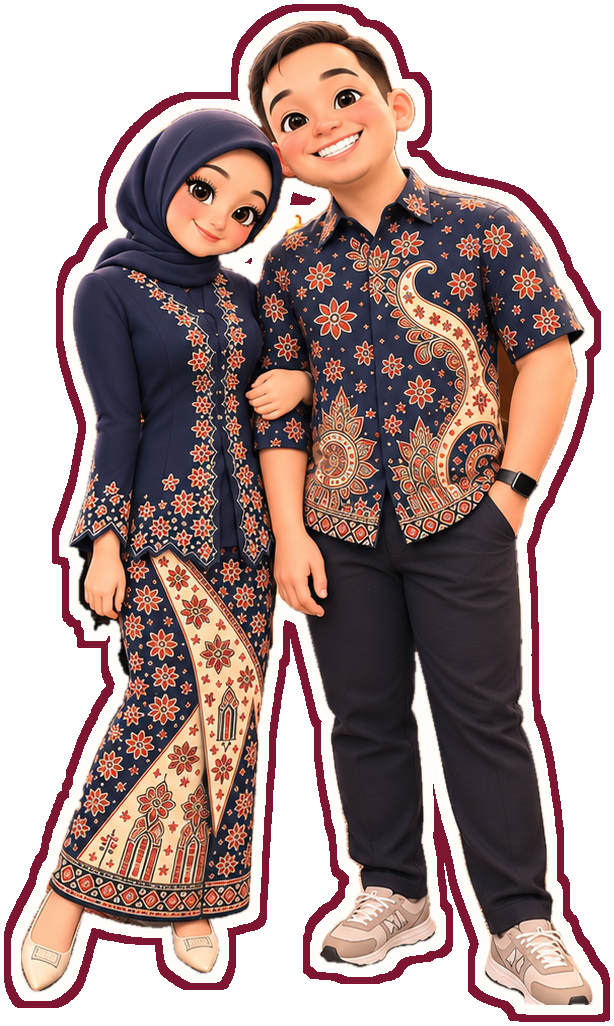
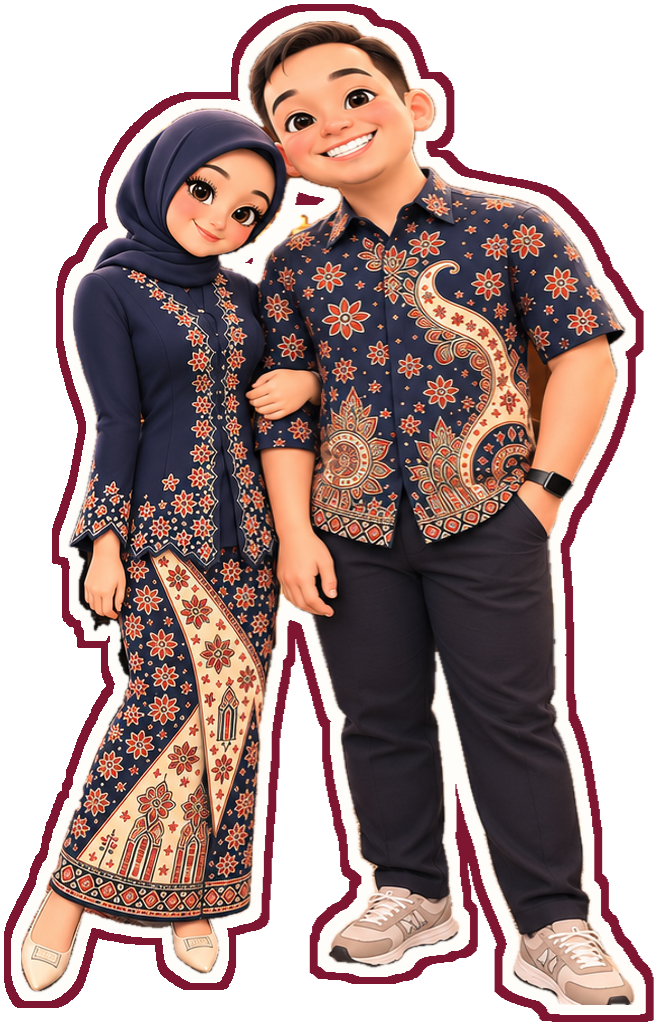
Update invitation: new photos, Thank You stickers, cute map, guest name
Claude-Session: https://claude.ai/code/session_01Wue7TvUhB2ZEZw9wazKPZM

diff --git a/index.html b/index.html
@@ -17,6 +17,8 @@ body{margin:0;background:#E9E2D6}
 a{color:#1E2B5C}a:hover{color:#B3164B}
 @keyframes fadeUp{from{opacity:0;transform:translateY(18px)}to{opacity:1;transform:none}}
 @keyframes zoomIn{from{opacity:0;transform:scale(.92)}to{opacity:1;transform:none}}
+@keyframes wob{0%,100%{transform:rotate(var(--r)) translateY(0)}25%{transform:rotate(calc(var(--r) + 3deg)) translateY(-5px)}50%{transform:rotate(var(--r)) translateY(-8px)}75%{transform:rotate(calc(var(--r) - 3deg)) translateY(-3px)}}
+.wob{animation:wob 3.2s ease-in-out infinite}
 @keyframes floaty{0%,100%{transform:translateY(0)}50%{transform:translateY(-6px)}}
 @keyframes beat{0%,100%{transform:scale(1)}15%{transform:scale(1.1)}30%{transform:scale(1)}45%{transform:scale(1.05)}}
 @keyframes sway{0%,100%{transform:rotate(-1.2deg)}50%{transform:rotate(1.2deg)}}
@@ -159,8 +161,8 @@ html,body{margin:0;height:100%;overflow:hidden;background:#FDF2F4}
     <g class="swb" style="animation-delay: .8s"><use href="#bowN" x="167" y="8" width="96" height="88"></use></g>
   </svg>
     <div style="position: absolute; left: 0; right: 0; top: 120px; bottom: 100px; display: flex; flex-direction: column; align-items: center; justify-content: center; gap: 4px; padding: 0 50px; text-align: center">
-      <p class="fu" style="margin: 0; font-family: 'Patrick Hand', cursive; font-size: 17px; color: #1E2B5C">for</p>
-      <p class="fu d1" style="margin: -4px 0 0; font-family: 'Great Vibes', cursive; font-size: 46px; line-height: 1.1; color: #B3164B" id="guest">you</p>
+      <p class="fu" style="margin: 0; font-family: 'Patrick Hand', cursive; font-size: 26px; color: #1E2B5C">for</p>
+      <p class="fu d1" style="margin: 0; font-family: 'Kalam', cursive; font-weight: 700; font-size: 34px; line-height: 1.2; color: #B3164B" id="guest">you</p>
       <div data-cls="envCls" style="transform-origin: 50% 55%">
         <button data-click="openEnv" aria-label="Tap to open the invitation" style="display: block; padding: 0; margin: 0; border: none; background: none; cursor: pointer">
           <svg class="zi d2" aria-hidden="true" width="300" height="433" viewBox="0 0 360 520" style="overflow: visible">
@@ -277,10 +279,8 @@ html,body{margin:0;height:100%;overflow:hidden;background:#FDF2F4}
         <div style="position: absolute; left: 4px; right: 4px; bottom: 0; height: 104px"><svg aria-hidden="true" width="350" height="104" viewBox="0 0 350 104" style="position: absolute; inset: 0"><path d="M6 10.8 L20 9.2 L34 12.8 L48 9.9 L62 8.8 L76 12.8 L90 19.0 L104 17.6 L118 17.2 L132 10.7 L146 14.4 L160 11.3 L174 10.1 L188 9.3 L202 10.6 L216 19.1 L230 17.9 L244 17.7 L258 17.6 L272 10.3 L286 11.7 L300 15.5 L314 16.8 L328 18.3 L342 18.6 L344 84.2 L330 91.5 L316 92.4 L302 90.1 L288 85.5 L274 89.6 L260 84.3 L246 96.1 L232 95.1 L218 90.7 L204 87.2 L190 95.7 L176 91.0 L162 95.4 L148 94.9 L134 90.1 L120 88.8 L106 91.4 L92 89.0 L78 85.3 L64 87.3 L50 94.4 L36 83.6 L22 83.6 L8 91.8 Z" fill="#F2B8C0" opacity=".9"></path><path d="M18 26 H307" stroke="#FBE3E6" stroke-width="3" opacity=".7" stroke-linecap="round"></path><path d="M30 35 H310" stroke="#FBE3E6" stroke-width="3" opacity=".7" stroke-linecap="round"></path><path d="M20 44 H331" stroke="#FBE3E6" stroke-width="3" opacity=".7" stroke-linecap="round"></path><path d="M16 53 H336" stroke="#FBE3E6" stroke-width="2.5" opacity=".7" stroke-linecap="round"></path><path d="M39 62 H328" stroke="#FBE3E6" stroke-width="3" opacity=".7" stroke-linecap="round"></path><path d="M30 71 H312" stroke="#FBE3E6" stroke-width="2.5" opacity=".7" stroke-linecap="round"></path><path d="M15 80 H318" stroke="#FBE3E6" stroke-width="2.5" opacity=".7" stroke-linecap="round"></path><path d="M0 52.0 C70.0 44.0 140.0 58.0 210.0 48.0" stroke="#F2B8C0" stroke-width="14" stroke-linecap="round" fill="none" opacity=".6"></path></svg>
           <p style="position: relative; margin: 0; padding: 40px 24px 0; font-family: 'Kalam', cursive; font-size: 15px; line-height: 1.35; color: #7E1631">“A celebration of love, laughter and our forever beginning”</p>
         </div>
-        <img class="hello" src="img/couple-hero.png" alt="Fregita and Yanuar waving" style="position: absolute; left: 79px; top: 36px; width: 200px; height: auto">
-        <svg class="bt" aria-hidden="true" width="30" height="27" viewBox="0 0 40 36" style="position: absolute; left: 156px; top: 2px; transform: rotate(-12deg)"><use href="#sh" width="40" height="36"></use></svg><svg class="bt" aria-hidden="true" width="26" height="23" viewBox="0 0 40 36" style="position: absolute; left: 192px; top: 0px; transform: rotate(14deg)"><use href="#sh" width="40" height="36"></use></svg><svg class="fl" aria-hidden="true" width="28" height="25" viewBox="0 0 40 36" style="position: absolute; left: 20px; top: 110px; transform: rotate(-14deg)"><use href="#oh" width="40" height="36"></use></svg><svg class="fl" aria-hidden="true" width="26" height="23" viewBox="0 0 40 36" style="position: absolute; left: 326px; top: 118px; transform: rotate(12deg)"><use href="#oh" width="40" height="36"></use></svg><svg class="" aria-hidden="true" width="38" height="34" viewBox="0 0 40 36" style="position: absolute; left: 4px; top: 240px; transform: rotate(-16deg)"><use href="#sh" width="40" height="36"></use></svg><svg class="fl" aria-hidden="true" width="22" height="20" viewBox="0 0 40 36" style="position: absolute; left: 332px; top: 248px; transform: rotate(10deg)"><use href="#oh" width="40" height="36"></use></svg>
-        <p style="position: absolute; left: 2px; top: 40px; margin: 0; font-family: 'Gochi Hand', cursive; font-size: 34px; color: #7E1631; transform: rotate(-10deg); text-shadow: 0 0 3px #FFFFFF, 0 0 3px #FFFFFF, 0 0 6px #FFFFFF, 2px 2px 0 #FFFFFF, -2px -2px 0 #FFFFFF, 2px -2px 0 #FFFFFF, -2px 2px 0 #FFFFFF">Fregita</p>
-        <p style="position: absolute; right: 2px; top: 46px; margin: 0; font-family: 'Gochi Hand', cursive; font-size: 32px; color: #7E1631; transform: rotate(8deg); text-shadow: 0 0 3px #FFFFFF, 0 0 3px #FFFFFF, 0 0 6px #FFFFFF, 2px 2px 0 #FFFFFF, -2px -2px 0 #FFFFFF, 2px -2px 0 #FFFFFF, -2px 2px 0 #FFFFFF">Yanuar</p>
+        <img class="hello" src="img/couple-hero.png" alt="Yanuar proposing to Fregita" style="position: absolute; left: 66px; top: 16px; width: 226px; height: auto">
+        <svg class="bt" aria-hidden="true" width="28" height="25" viewBox="0 0 40 36" style="position: absolute; left: 300px; top: 74px; transform: rotate(-12deg)"><use href="#sh" width="40" height="36"></use></svg><svg class="bt" aria-hidden="true" width="22" height="20" viewBox="0 0 40 36" style="position: absolute; left: 334px; top: 98px; transform: rotate(14deg)"><use href="#sh" width="40" height="36"></use></svg><svg class="fl" aria-hidden="true" width="28" height="25" viewBox="0 0 40 36" style="position: absolute; left: 20px; top: 110px; transform: rotate(-14deg)"><use href="#oh" width="40" height="36"></use></svg><svg class="fl" aria-hidden="true" width="26" height="23" viewBox="0 0 40 36" style="position: absolute; left: 322px; top: 168px; transform: rotate(12deg)"><use href="#oh" width="40" height="36"></use></svg><svg class="" aria-hidden="true" width="38" height="34" viewBox="0 0 40 36" style="position: absolute; left: 4px; top: 240px; transform: rotate(-16deg)"><use href="#sh" width="40" height="36"></use></svg><svg class="fl" aria-hidden="true" width="22" height="20" viewBox="0 0 40 36" style="position: absolute; left: 332px; top: 248px; transform: rotate(10deg)"><use href="#oh" width="40" height="36"></use></svg>
       </div>
       <p style="margin: 6px 0 0; font-family: 'Kalam', cursive; font-size: 20px; font-weight: 700; letter-spacing: 5px; color: #1E2B5C">22.11.2026</p></div><svg aria-hidden="true" width="430" height="60" viewBox="0 0 430 60" style="position: absolute; left: 0; top: 790px; pointer-events: none"><path d="M-4 44 C40 30 80 56 130 44 S190 34 205 44" fill="none" stroke="#7E1631" stroke-width="2.4" stroke-linecap="round"></path><path d="M225 44 C245 54 290 30 340 44 S410 52 434 38" fill="none" stroke="#7E1631" stroke-width="2.4" stroke-linecap="round"></path><path class="bt" d="M215 46 C203 36 196 30 196 22 A9 9 0 0 1 215 18 A9 9 0 0 1 234 22 C234 30 227 36 215 46 Z" fill="none" stroke="#7E1631" stroke-width="2.6" stroke-linejoin="round"></path></svg>
     </div>
@@ -420,15 +420,63 @@ html,body{margin:0;height:100%;overflow:hidden;background:#FDF2F4}
         </div>
       </div>
       <div class="fu d3" style="position: absolute; right: 46px; top: 448px; display: flex; flex-direction: column; gap: 16px"><div style="display: flex; flex-direction: column; align-items: center"><span style="font-family: 'Gochi Hand', cursive; font-size: 34px; line-height: 1; color: #FFFFFF"><span data-text="days"></span></span><span style="font-family: 'Kalam', cursive; font-size: 10px; font-weight: 700; letter-spacing: 2px; color: #F2B8C0">DAYS</span></div><div style="display: flex; flex-direction: column; align-items: center"><span style="font-family: 'Gochi Hand', cursive; font-size: 34px; line-height: 1; color: #FFFFFF"><span data-text="hours"></span></span><span style="font-family: 'Kalam', cursive; font-size: 10px; font-weight: 700; letter-spacing: 2px; color: #F2B8C0">HOURS</span></div><div style="display: flex; flex-direction: column; align-items: center"><span style="font-family: 'Gochi Hand', cursive; font-size: 34px; line-height: 1; color: #FFFFFF"><span data-text="mins"></span></span><span style="font-family: 'Kalam', cursive; font-size: 10px; font-weight: 700; letter-spacing: 2px; color: #F2B8C0">MINUTES</span></div><div style="display: flex; flex-direction: column; align-items: center"><span style="font-family: 'Gochi Hand', cursive; font-size: 34px; line-height: 1; color: #FFFFFF"><span data-text="secs"></span></span><span style="font-family: 'Kalam', cursive; font-size: 10px; font-weight: 700; letter-spacing: 2px; color: #F2B8C0">SECONDS</span></div></div>
+      <a class="fu d4" href="https://www.google.com/maps/search/?api=1&amp;query=Lembur%20Kuring%20Cimanggis&amp;query_place_id=ChIJHSUCJYbraS4RH519K3nJDyY" target="_blank" rel="noopener" aria-label="Open Lembur Kuring Cimanggis in Google Maps" style="position: absolute; left: 40px; right: 40px; top: 724px; height: 120px; display: block; border: 4px solid #FFFFFF; border-radius: 16px; overflow: hidden; background: #FBF1EC; box-shadow: 0 6px 16px rgba(0,0,0,0.25); transform: rotate(-1deg); text-decoration: none">
+        <svg aria-hidden="true" viewBox="12 0 318 112" preserveAspectRatio="xMidYMid slice" style="position: absolute; inset: 0; width: 100%; height: 100%">
+          <rect x="0" width="342" height="112" fill="#FBF1EC"></rect>
+          <g fill="#F6D3DA"><circle cx="10" cy="8" r="2"></circle><circle cx="10" cy="30" r="2"></circle><circle cx="10" cy="52" r="2"></circle><circle cx="10" cy="74" r="2"></circle><circle cx="10" cy="96" r="2"></circle><circle cx="32" cy="8" r="2"></circle><circle cx="32" cy="30" r="2"></circle><circle cx="32" cy="52" r="2"></circle><circle cx="32" cy="74" r="2"></circle><circle cx="32" cy="96" r="2"></circle><circle cx="54" cy="8" r="2"></circle><circle cx="54" cy="30" r="2"></circle><circle cx="54" cy="52" r="2"></circle><circle cx="54" cy="74" r="2"></circle><circle cx="54" cy="96" r="2"></circle><circle cx="76" cy="8" r="2"></circle><circle cx="76" cy="30" r="2"></circle><circle cx="76" cy="52" r="2"></circle><circle cx="76" cy="74" r="2"></circle><circle cx="76" cy="96" r="2"></circle><circle cx="98" cy="8" r="2"></circle><circle cx="98" cy="30" r="2"></circle><circle cx="98" cy="52" r="2"></circle><circle cx="98" cy="74" r="2"></circle><circle cx="98" cy="96" r="2"></circle><circle cx="120" cy="8" r="2"></circle><circle cx="120" cy="30" r="2"></circle><circle cx="120" cy="52" r="2"></circle><circle cx="120" cy="74" r="2"></circle><circle cx="120" cy="96" r="2"></circle><circle cx="142" cy="8" r="2"></circle><circle cx="142" cy="30" r="2"></circle><circle cx="142" cy="52" r="2"></circle><circle cx="142" cy="74" r="2"></circle><circle cx="142" cy="96" r="2"></circle><circle cx="164" cy="8" r="2"></circle><circle cx="164" cy="30" r="2"></circle><circle cx="164" cy="52" r="2"></circle><circle cx="164" cy="74" r="2"></circle><circle cx="164" cy="96" r="2"></circle><circle cx="186" cy="8" r="2"></circle><circle cx="186" cy="30" r="2"></circle><circle cx="186" cy="52" r="2"></circle><circle cx="186" cy="74" r="2"></circle><circle cx="186" cy="96" r="2"></circle><circle cx="208" cy="8" r="2"></circle><circle cx="208" cy="30" r="2"></circle><circle cx="208" cy="52" r="2"></circle><circle cx="208" cy="74" r="2"></circle><circle cx="208" cy="96" r="2"></circle><circle cx="230" cy="8" r="2"></circle><circle cx="230" cy="30" r="2"></circle><circle cx="230" cy="52" r="2"></circle><circle cx="230" cy="74" r="2"></circle><circle cx="230" cy="96" r="2"></circle><circle cx="252" cy="8" r="2"></circle><circle cx="252" cy="30" r="2"></circle><circle cx="252" cy="52" r="2"></circle><circle cx="252" cy="74" r="2"></circle><circle cx="252" cy="96" r="2"></circle><circle cx="274" cy="8" r="2"></circle><circle cx="274" cy="30" r="2"></circle><circle cx="274" cy="52" r="2"></circle><circle cx="274" cy="74" r="2"></circle><circle cx="274" cy="96" r="2"></circle><circle cx="296" cy="8" r="2"></circle><circle cx="296" cy="30" r="2"></circle><circle cx="296" cy="52" r="2"></circle><circle cx="296" cy="74" r="2"></circle><circle cx="296" cy="96" r="2"></circle><circle cx="318" cy="8" r="2"></circle><circle cx="318" cy="30" r="2"></circle><circle cx="318" cy="52" r="2"></circle><circle cx="318" cy="74" r="2"></circle><circle cx="318" cy="96" r="2"></circle><circle cx="340" cy="8" r="2"></circle><circle cx="340" cy="30" r="2"></circle><circle cx="340" cy="52" r="2"></circle><circle cx="340" cy="74" r="2"></circle><circle cx="340" cy="96" r="2"></circle></g>
+          <path d="M64 -8 C82 28 98 56 110 74 C122 92 136 108 148 124" fill="none" stroke="#20305E" stroke-width="25" stroke-linecap="round"></path><path d="M64 -8 C82 28 98 56 110 74 C122 92 136 108 148 124" fill="none" stroke="#FFFFFF" stroke-width="22" stroke-linecap="round"></path><path d="M64 -8 C82 28 98 56 110 74 C122 92 136 108 148 124" fill="none" stroke="#7E1631" stroke-width="1.4" stroke-dasharray="5 5"></path>
+          <path d="M14 124 C50 104 84 86 110 74 C160 52 230 30 336 -8" fill="none" stroke="#20305E" stroke-width="25" stroke-linecap="round"></path><path d="M14 124 C50 104 84 86 110 74 C160 52 230 30 336 -8" fill="none" stroke="#FFFFFF" stroke-width="22" stroke-linecap="round"></path><path d="M14 124 C50 104 84 86 110 74 C160 52 230 30 336 -8" fill="none" stroke="#7E1631" stroke-width="1.4" stroke-dasharray="6 6"></path>
+          <rect x="96" y="60" width="28" height="28" rx="4" fill="#FFFFFF" transform="rotate(-26 110 74)"></rect>
+          <g><rect x="28.5" y="52" width="3" height="9" fill="#7A5A3A"></rect><circle cx="30" cy="52" r="7" fill="#9CC79A" stroke="#20305E" stroke-width="1.2"></circle></g><g><rect x="44.5" y="66" width="3" height="7" fill="#7A5A3A"></rect><circle cx="46" cy="66" r="5" fill="#B5D6A6" stroke="#20305E" stroke-width="1.2"></circle></g>
+          <g transform="translate(76 50)"><rect x="-0.8" y="6" width="1.6" height="10" fill="#20305E"></rect><rect x="-3.6" y="-6" width="7.2" height="13" rx="2" fill="#20305E"></rect><circle cx="0" cy="-3" r="1.6" fill="#E5484D"></circle><circle cx="0" cy="0.6" r="1.6" fill="#F5C542"></circle><circle cx="0" cy="4.2" r="1.6" fill="#5BBF6A"></circle></g>
+          <rect x="134" y="80" width="78" height="22" rx="11" fill="#20305E"></rect>
+          <text x="173" y="94.4" font-family="Kalam, cursive" font-size="9.2" font-weight="700" fill="#FFFFFF" text-anchor="middle">Simpangan Depok</text>
+          <text x="20" y="22" font-family="Kalam, cursive" font-size="7.6" font-weight="700" fill="#20305E">↖ Jatijajar</text>
+          <text x="156" y="110.5" font-family="Kalam, cursive" font-size="7.4" font-weight="700" fill="#20305E">Jl. Tole Iskandar · Depok ↘</text>
+          <rect x="16" y="94" width="54" height="15" rx="7.5" fill="#7E1631"></rect>
+          <text x="43" y="104.5" font-family="Kalam, cursive" font-size="7.4" font-weight="700" fill="#FFFFFF" text-anchor="middle">from Jakarta</text>
+          <text x="210" y="14" font-family="Kalam, cursive" font-size="7.6" font-weight="700" fill="#7E1631" text-anchor="middle">to Bogor ↗</text>
+          <text x="172" y="51" font-family="Kalam, cursive" font-size="10" font-weight="700" fill="#20305E" stroke="#FFFFFF" stroke-width="3" paint-order="stroke" stroke-linejoin="round" text-anchor="middle" transform="rotate(-21 172 51)">Jl. Raya Bogor · ± 2.5 km</text>
+          
+          
+          
+          
+          
+          
+          <path transform="translate(120 30) scale(0.25)" d="M20 33 C8 24 3 18 3 11 A8 8 0 0 1 20 8 A8 8 0 0 1 37 11 C37 18 32 24 20 33 Z" fill="#F2B8C0"></path>
+          
+          <g transform="translate(234 90) scale(0.9) translate(-262 -80)"><ellipse cx="262" cy="80" rx="21" ry="0" fill="none" stroke="#20305E" stroke-width="1"></ellipse>
+          <g stroke="#20305E" stroke-width="1.1" stroke-linejoin="round">
+            <path d="M247 76 V80 M253 76 V80 M259 76 V80 M265 76 V80 M271 76 V80 M277 76 V80" fill="none"></path>
+            <rect x="245" y="63" width="34" height="13" fill="#D9B48A"></rect>
+            <path d="M245 67 H279 M245 71 H279" fill="none" stroke="#B48A5C" stroke-width="0.8"></path>
+            <rect x="258" y="66" width="8" height="10" rx="1" fill="#7A4E2D"></rect>
+            <rect x="248.5" y="66" width="6" height="5" fill="#FFF3D6"></rect><rect x="269.5" y="66" width="6" height="5" fill="#FFF3D6"></rect>
+            <path d="M262 44 L246 58 L238 64 L249 62 L262 52 L275 62 L286 64 L278 58 Z" fill="#7E1631"></path>
+            <path d="M262 52 L249 62 L275 62 Z" fill="#E9C9A0"></path>
+            <path d="M262 44 L259 40 M262 44 L265 40" fill="none" stroke-width="1.4" stroke-linecap="round"></path>
+            <path d="M240 76 H284" fill="none"></path>
+          </g></g>
+          <g class="bt"><path d="M234 60 C226 49 222 44 222 39 A12 12 0 0 1 246 39 C246 44 242 49 234 60 Z" fill="#7E1631" stroke="#FFFFFF" stroke-width="2"></path><circle cx="234" cy="39" r="4.5" fill="#FFFFFF"></circle></g>
+          <rect x="254" y="40" width="64" height="34" rx="9" fill="#FFFFFF" stroke="#7E1631" stroke-width="1.6"></rect>
+          <text x="286" y="54" font-family="Kalam, cursive" font-size="9.6" font-weight="700" fill="#7E1631" text-anchor="middle">Lembur Kuring</text>
+          <text x="286" y="67" font-family="Kalam, cursive" font-size="9.6" font-weight="700" fill="#7E1631" text-anchor="middle">Cimanggis ♡</text>
+        </svg>
+        <span style="position: absolute; right: 8px; bottom: 7px; display: inline-flex; align-items: center; gap: 4px; padding: 3px 8px; border-radius: 999px; background: #7E1631; color: #FFFFFF; font-family: 'Kalam', cursive; font-size: 10px; font-weight: 700">Open in Maps ↗</span>
+      </a>
     </div>
   </section>
   <section data-cls="sec6" style="position: relative; height: 932px; overflow: hidden; background-color: #FDF2F4; background-image: radial-gradient(#F4C3CF 2.6px, transparent 3px), radial-gradient(#F4C3CF 2.6px, transparent 3px); background-size: 30px 30px; background-position: 0 0, 15px 15px">
     <div style="position: absolute; inset: 0">
 <div style="position: absolute; left: 0; right: 0; top: 56px; bottom: 130px; display: flex; flex-direction: column; align-items: center; justify-content: center; gap: 8px; padding: 0 40px; text-align: center">
       <h2 style="margin: 0; font-family: 'Yesteryear', cursive; font-weight: 400; font-size: 62px; line-height: 1; color: #7E1631; transform: rotate(-3deg)"><span class="ch" style="animation-delay: 0.20s">T</span><span class="ch" style="animation-delay: 0.27s">h</span><span class="ch" style="animation-delay: 0.34s">a</span><span class="ch" style="animation-delay: 0.41s">n</span><span class="ch" style="animation-delay: 0.48s">k</span> <span class="ch" style="animation-delay: 0.55s">Y</span><span class="ch" style="animation-delay: 0.62s">o</span><span class="ch" style="animation-delay: 0.69s">u</span><span class="ch" style="animation-delay: 0.76s">!</span></h2>
-      <div class="zi d1" style="position: relative; width: 300px; height: 330px">
-        <img src="img/couple-full.png" alt="Fregita and Yanuar" style="position: absolute; left: 50px; top: 0; height: 330px; width: auto">
-        <svg class="bt" aria-hidden="true" width="40" height="36" viewBox="0 0 40 36" style="position: absolute; left: 8px; top: 40px; transform: rotate(-14deg)"><use href="#sh" width="40" height="36"></use></svg><svg class="fl" aria-hidden="true" width="30" height="27" viewBox="0 0 40 36" style="position: absolute; left: 250px; top: 20px; transform: rotate(12deg)"><use href="#oh" width="40" height="36"></use></svg><svg class="fl" aria-hidden="true" width="26" height="23" viewBox="0 0 40 36" style="position: absolute; left: 14px; top: 230px; transform: rotate(-10deg)"><use href="#oh" width="40" height="36"></use></svg><svg class="bt" aria-hidden="true" width="30" height="27" viewBox="0 0 40 36" style="position: absolute; left: 258px; top: 200px; transform: rotate(14deg)"><use href="#sh" width="40" height="36"></use></svg>
+      <div class="zi d1" style="position: relative; width: 390px; height: 360px">
+        <img class="wob" src="img/pose1.png" alt="Fregita and Yanuar making a heart with their arms" style="position: absolute; left: 6px; top: 6px; height: 160px; width: auto; --r: -8deg; transform: rotate(-8deg); animation-delay: 0s">
+        <img class="wob" src="img/pose2.png" alt="Fregita and Yanuar doing a playful rawr pose" style="position: absolute; right: 0; top: 0; height: 160px; width: auto; --r: 7deg; transform: rotate(7deg); animation-delay: -0.8s">
+        <img class="wob" src="img/pose3.png" alt="Fregita and Yanuar smiling and pointing" style="position: absolute; left: -14px; top: 196px; height: 160px; width: auto; --r: 6deg; transform: rotate(6deg); animation-delay: -1.6s">
+        <img class="wob" src="img/pose4.png" alt="Fregita playfully pinching Yanuar's cheek" style="position: absolute; right: -6px; top: 198px; height: 160px; width: auto; --r: -7deg; transform: rotate(-7deg); animation-delay: -2.4s">
+        <img src="img/couple-full.png" alt="Fregita and Yanuar arm in arm" style="position: absolute; left: 50%; top: 46px; height: 250px; width: auto; transform: translateX(-50%)">
+        <svg class="bt" aria-hidden="true" width="26" height="23" viewBox="0 0 40 36" style="position: absolute; left: 182px; top: 4px; transform: rotate(-12deg)"><use href="#sh" width="40" height="36"></use></svg><svg class="fl" aria-hidden="true" width="24" height="22" viewBox="0 0 40 36" style="position: absolute; left: 184px; top: 316px; transform: rotate(10deg)"><use href="#oh" width="40" height="36"></use></svg>
       </div>
       <p class="fu d2" style="margin: 6px 0 0; font-family: 'Kalam', cursive; font-size: 16px; line-height: 1.5; color: #1E2B5C">You all are our favorite people, so of course we want you by our side for this sweet little moment. See you there ♡</p>
       <p class="fu d3" style="margin: 4px 0 0; font-family: 'Caveat Brush', cursive; font-size: 18px; letter-spacing: 4px; color: #7E1631">WITH LOVE,</p>
@@ -539,7 +587,7 @@ html,body{margin:0;height:100%;overflow:hidden;background:#FDF2F4}
   var g = document.getElementById('guest');
   if (g) {
     g.textContent = guest || 'you';
-    if (guest.length > 14) g.style.fontSize = Math.max(26, Math.round(46 * 14 / guest.length)) + 'px';
+    if (guest.length > 16) g.style.fontSize = Math.max(22, Math.round(34 * 16 / guest.length)) + 'px';
     if (guest) document.title = 'For ' + guest + ' · Engagement Fregita & Yanuar';
   }
   app.audio = document.getElementById('song');
